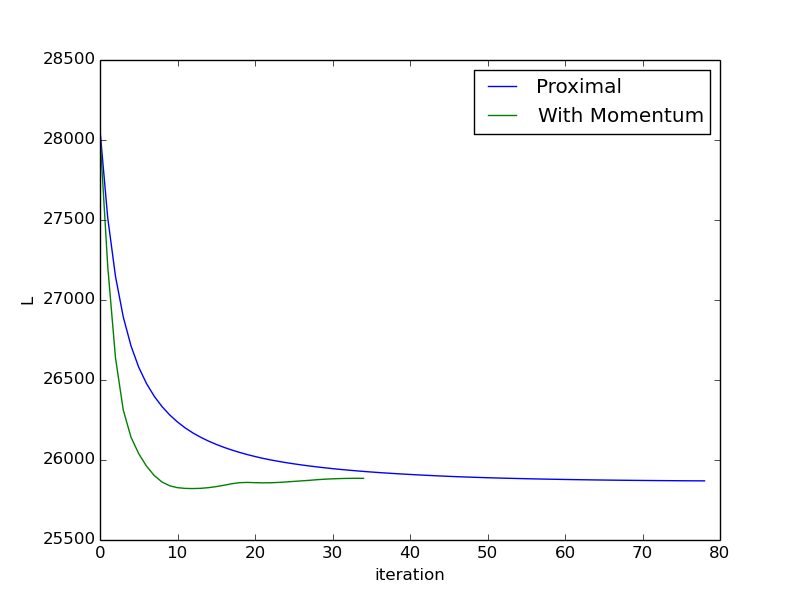
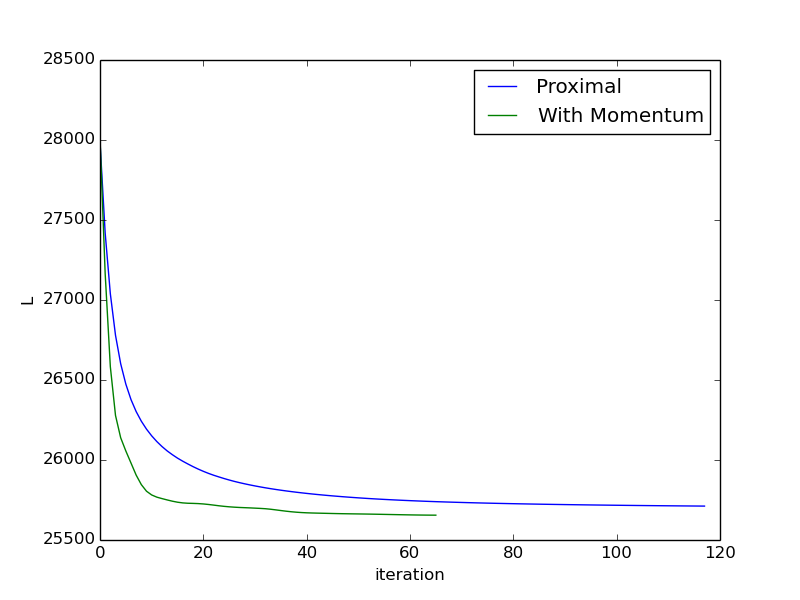
Added penalty

diff --git a/week6/proximal.py b/week6/proximal.py
@@ -62,7 +62,7 @@ def run_prox(X, y, alpha):
     b = np.random.rand(X.shape[1])
     err = []
     while not test_converge(err, 10e-6):
-        u = b + 0.1*np.dot(X.T, y[:,0]-np.dot(X,b))/(2*y.shape[0])
+        u = b + 0.1*np.dot(X.T, y[:,0]-np.dot(X,b))/(2*y.shape[0]) + alpha * (b > 0).astype(float) - alpha * (b < 0).astype(float)
         b = calc_prox(u, alpha)
         err.append(calc_mse(np.dot(X, b), y[:,0])+alpha*sum(abs(b)))
     return b, err
@@ -82,7 +82,7 @@ def run_mom(X, y, alpha):
         b = calc_prox(u, alpha)
         b_vec.append(b)
         s.append((1+np.sqrt(1+4*s[-1]**2))/2)
-        z = b_vec[-1] + ((s[-1]-1)/s[-2])*(b_vec[-1]-b_vec[-2])
+        z = b_vec[-1] + ((s[-1]-1)/s[-2])*(b_vec[-1]-b_vec[-2]) + alpha * (b > 0).astype(float) - alpha * (b < 0).astype(float)
         err.append(calc_mse(np.dot(X, b), y[:,0])+alpha*sum(abs(b)))
     return b, err
 
